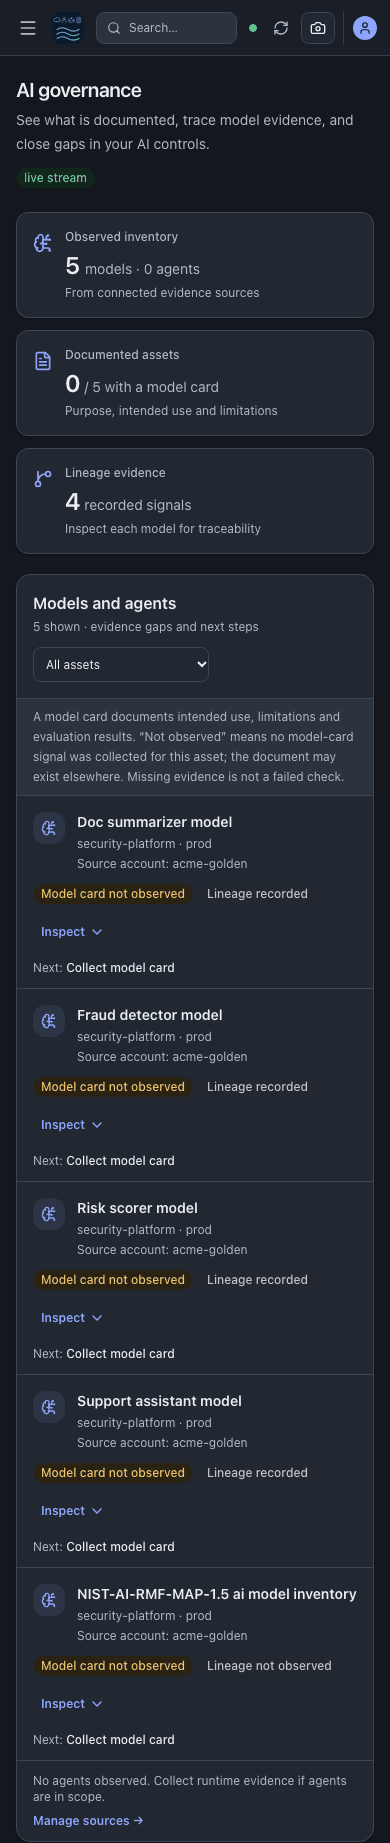
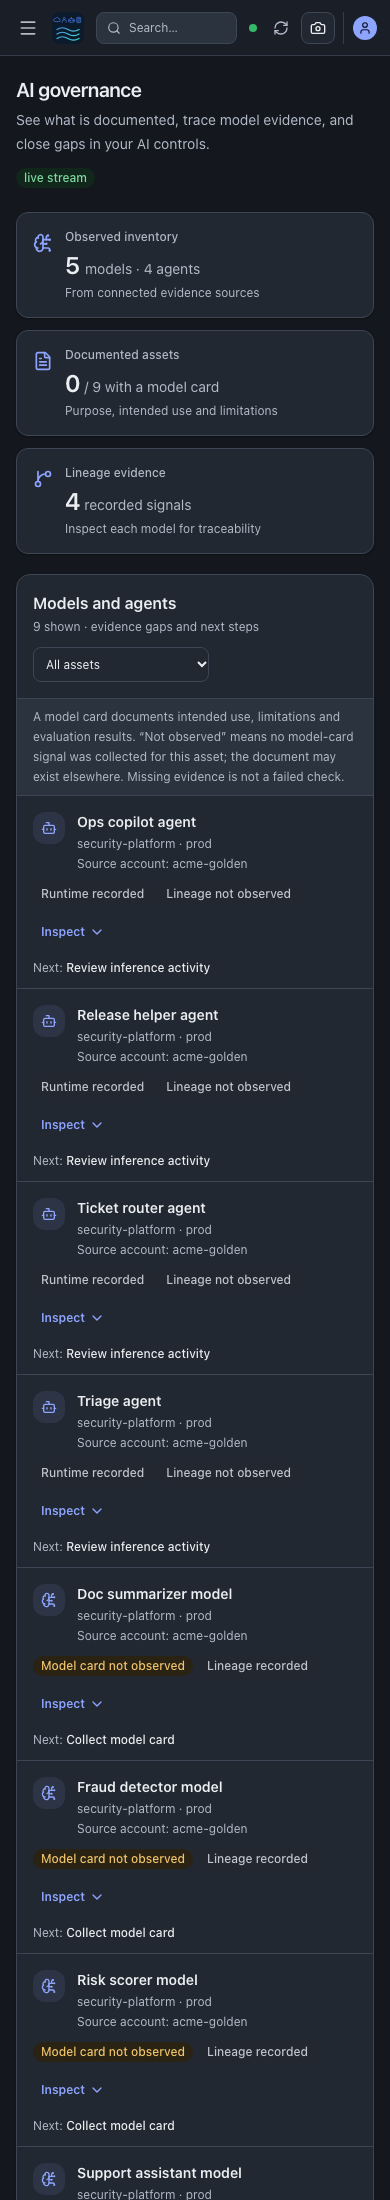
feat(demo): start AI investigations from recorded asset discovery (#1170)
* fix(deps): update pyasn1 to patched 0.6.5

* feat(demo): start AI investigations from recorded asset discovery

* test(demo): verify recorded agents in the real inventory

---------

diff --git a/app/web/e2e/ai-worklist.spec.ts b/app/web/e2e/ai-worklist.spec.ts
@@ -49,6 +49,12 @@ test("model worklist exposes evidence gaps and follows only the selected asset",
   await expect(
     worklist.getByText("Documented model", { exact: true }),
   ).toBeVisible();
+  await worklist.getByLabel("Filter AI inventory").selectOption("agents");
+  await expect(
+    worklist.getByText("No observed assets match this filter."),
+  ).toBeVisible();
+  await expect(worklist.locator("li")).toHaveCount(0);
+  await worklist.getByLabel("Filter AI inventory").selectOption("all");
   await worklist.getByRole("button", { name: "Inspect Review model" }).click();
   const detail = worklist.getByRole("region", { name: "Review model details" });
   await expect(detail).toContainText("Purpose, limitations and intended use");
@@ -122,9 +128,21 @@ for (const width of [390, 768, 1440]) {
       ),
     ).toBe(true);
     await worklist.getByLabel("Filter AI inventory").selectOption("agents");
+    await expect(worklist.locator("li")).toHaveCount(4);
+    for (const name of [
+      "Ops copilot agent",
+      "Release helper agent",
+      "Ticket router agent",
+      "Triage agent",
+    ]) {
+      await expect(worklist.getByRole("heading", { name })).toBeVisible();
+    }
     await expect(
-      worklist.getByText("No observed assets match this filter."),
-    ).toBeVisible();
+      worklist.getByText("Runtime recorded", { exact: true }),
+    ).toHaveCount(4);
+    await expect(
+      worklist.getByRole("heading", { name: "Doc summarizer model" }),
+    ).toHaveCount(0);
     await worklist.getByLabel("Filter AI inventory").selectOption("all");
     await expect(
       worklist.getByRole("heading", { name: "Doc summarizer model" }),
@@ -180,4 +198,50 @@ test("canonical AI agents show runtime actions and stay out of model-card gaps",
   await expect(
     worklist.getByRole("link", { name: "View agent evidence" }),
   ).toBeVisible();
+});
+
+test("inference agents show recorded runtime without claiming tool permissions", async ({
+  page,
+}) => {
+  await page.route("**/api/v1/platform/ai-governance/inventory**", (route) =>
+    route.fulfill({
+      json: {
+        data: [
+          {
+            asset_id: "agent:inference",
+            asset_name: "Inference agent",
+            asset_type: "agent",
+            source_account_id: "source-a",
+            owner: "AI team",
+            environment: "test",
+            model_card: false,
+            lineage_complete: false,
+            last_seen_at: "2026-10-30T12:00:00Z",
+            sources: ["runtime_gateway"],
+            control_ids: [],
+            event_types: ["runtime.inference"],
+          },
+        ],
+      },
+    }),
+  );
+  await page.goto("/console/ai-governance/");
+  const worklist = page.getByRole("region", { name: "Models and agents" });
+  await expect(
+    worklist.getByText("Runtime recorded", { exact: true }),
+  ).toBeVisible();
+  await expect(
+    worklist.getByText("Review inference activity", { exact: true }),
+  ).toBeVisible();
+  await expect(
+    worklist.getByText("Runtime not observed", { exact: true }),
+  ).toHaveCount(0);
+  await worklist
+    .getByRole("button", { name: "Inspect Inference agent" })
+    .click();
+  await expect(
+    worklist.getByRole("region", { name: "Inference agent details" }),
+  ).toContainText(
+    "Inference evidence alone does not establish tool permissions",
+  );
 });

diff --git a/app/web/src/components/audit-room/AiGovernanceWorkspace.tsx b/app/web/src/components/audit-room/AiGovernanceWorkspace.tsx
@@ -32,10 +32,13 @@ function inventoryKey(item: AiInventoryItem): string {
 }
 
 function nextStep(item: AiInventoryItem): string {
-  if (isAgent(item))
-    return item.event_types.includes("runtime.tool_call")
-      ? "Review tool activity"
-      : "Collect runtime evidence";
+  if (isAgent(item)) {
+    if (item.event_types.includes("runtime.tool_call"))
+      return "Review tool activity";
+    if (item.event_types.includes("runtime.inference"))
+      return "Review inference activity";
+    return "Collect runtime evidence";
+  }
   if (!item.model_card) return "Collect model card";
   if (!item.lineage_complete) return "Review model lineage";
   return "Review linked controls";
@@ -48,7 +51,9 @@ function InventoryRow({ item }: { item: AiInventoryItem }) {
   const agent = isAgent(item);
   const recordedLineage =
     item.lineage_complete || item.event_types.includes("model.lineage");
-  const runtime = item.event_types.includes("runtime.tool_call");
+  const runtime = item.event_types.some((type) =>
+    ["runtime.tool_call", "runtime.inference"].includes(type),
+  );
   const Icon = agent ? Bot : BrainCircuit;
   return (
     <li className="border-t border-line first:border-t-0">
@@ -119,7 +124,7 @@ function InventoryRow({ item }: { item: AiInventoryItem }) {
             <p className="mt-1 text-xs leading-5 text-muted">
               {agent
                 ? runtime
-                  ? "Review the recorded tools, permissions and outcomes before assessing agent behavior."
+                  ? "Review the recorded runtime activity and outcomes before assessing agent behavior. Inference evidence alone does not establish tool permissions or complete agent coverage."
                   : "Runtime evidence is needed to inspect tool use and permissions. Connect the agent activity source if this agent is in scope."
                 : !item.model_card
                   ? "Purpose, limitations and intended use belong in a model card. No model-card signal was collected for this asset; the document may exist elsewhere. Ask the owner for the card and collect its evidence, then review the linked controls."

diff --git a/src/security_lakehouse/ai_governance.py b/src/security_lakehouse/ai_governance.py
@@ -73,12 +73,21 @@ def _attributes(row: dict[str, Any]) -> dict[str, Any]:
     return attrs if isinstance(attrs, dict) else {}
 
 
+def _is_runtime_agent(row: dict[str, Any]) -> bool:
+    return _asset_type(row) in {"agent", "ai_agent"} and str(row.get("event_type") or "") in AGENT_EVENT_TYPES | {
+        "runtime.inference"
+    }
+
+
+def _is_ai_asset(row: dict[str, Any]) -> bool:
+    return _asset_type(row) in AI_ASSET_TYPES or _is_runtime_agent(row)
+
+
 def _is_ai_event(row: dict[str, Any]) -> bool:
     event_type = str(row.get("event_type") or "")
     if event_type in INVENTORY_EVENT_TYPES | LINEAGE_EVENT_TYPES | AGENT_EVENT_TYPES | REPO_ARTIFACT_EVENT_TYPES:
         return True
-    asset_type = _asset_type(row)
-    return asset_type in AI_ASSET_TYPES
+    return _is_ai_asset(row)
 
 
 def _framework_control_ids(controls: list[dict[str, Any]], prefix: str) -> set[str]:
@@ -192,7 +201,7 @@ def _inventory_items(events: list[dict[str, Any]]) -> list[dict[str, Any]]:
         if not asset_id:
             continue
         asset_type = _asset_type(row)
-        if asset_type not in AI_ASSET_TYPES and str(row.get("event_type") or "") not in INVENTORY_EVENT_TYPES:
+        if not _is_ai_asset(row) and str(row.get("event_type") or "") not in INVENTORY_EVENT_TYPES:
             continue
         attrs = _attributes(row)
         account, _ = source_asset_key({**row, "asset_id": asset_id})
@@ -283,12 +292,14 @@ def build_ai_governance_status(*, lake: Path) -> dict[str, Any]:
 
     inventory_events = [row for row in ai_events if str(row.get("event_type") or "") in INVENTORY_EVENT_TYPES]
     lineage_events = [row for row in ai_events if str(row.get("event_type") or "") in LINEAGE_EVENT_TYPES]
-    agent_events = [row for row in ai_events if str(row.get("event_type") or "") in AGENT_EVENT_TYPES]
+    agent_events = [
+        row for row in ai_events if str(row.get("event_type") or "") in AGENT_EVENT_TYPES or _is_runtime_agent(row)
+    ]
     repo_artifacts = [row for row in ai_events if str(row.get("event_type") or "") in REPO_ARTIFACT_EVENT_TYPES]
 
     inventory = _merged_inventory(lake=lake, events=ai_events)
     models = [row for row in inventory if row["asset_type"] in {"ai_model", "model"}]
-    agents = [row for row in inventory if row["asset_type"] == "ai_agent"]
+    agents = [row for row in inventory if row["asset_type"] in {"ai_agent", "agent"}]
     with_model_card = sum(1 for row in inventory if row["model_card"])
     with_lineage = sum(1 for row in inventory if row["lineage_complete"] or "model.lineage" in row["event_types"])
 

diff --git a/src/security_lakehouse/cli.py b/src/security_lakehouse/cli.py
@@ -471,7 +471,13 @@ def _parser() -> argparse.ArgumentParser:
     serve.set_defaults(func=_serve)
 
     demo = sub.add_parser(
-        "demo", help="load the synthetic golden company into a temporary lake and open the console on loopback"
+        "demo", help="load a synthetic company into a temporary lake and open the console on loopback"
+    )
+    demo.add_argument(
+        "--company",
+        choices=["golden", "ai_lab"],
+        default="golden",
+        help="synthetic demo company; ai_lab opens model and agent inventory",
     )
     demo.add_argument("--port", type=int, default=8787, help="loopback port")
     demo.add_argument("--no-browser", action="store_true", help="print the console URL without opening a browser")
@@ -2315,9 +2321,10 @@ def _serve_demo(args: argparse.Namespace, host: str) -> int:
     import tempfile
 
     with tempfile.TemporaryDirectory(prefix="grc-lake-demo-") as lake:
-        print("loading the synthetic golden company...", flush=True)
-        _load_fixture("golden", lake, tenant_id="default", rebase_times=True, demo_records=True)
-        url = f"http://{host}:{args.port}/console/dashboard/"
+        print(f"loading the synthetic {args.company} company...", flush=True)
+        _load_fixture(args.company, lake, tenant_id="default", rebase_times=True, demo_records=True)
+        page = "ai-governance" if args.company == "ai_lab" else "dashboard"
+        url = f"http://{host}:{args.port}/console/{page}/"
         try:
             import uvicorn
 
@@ -2329,6 +2336,9 @@ def _serve_demo(args: argparse.Namespace, host: str) -> int:
         if not args.no_browser:
             _open_when_listening(host, args.port, url)
         print(f"GRC Lake demo (synthetic data, no authentication, loopback only): {url}")
+        if args.company == "ai_lab":
+            print("Start with the discovered models and agents, then inspect their recorded evidence and gaps.")
+            print("Synthetic observations do not establish live coverage or framework compliance.")
         print("press Ctrl+C to stop; the temporary lake is deleted on exit", flush=True)
         with contextlib.suppress(KeyboardInterrupt):
             if not full_server:

diff --git a/tests/test_cli_demo.py b/tests/test_cli_demo.py
@@ -123,3 +123,41 @@ def test_demo_deletes_its_temporary_lake_on_sigterm(tmp_path: Path) -> None:
             process.wait()
 
     assert not lakes[0].exists()
+
+
+def test_ai_demo_opens_inventory_with_real_fixture_assets_and_cleans_up(monkeypatch, capsys):
+    pytest.importorskip("uvicorn")
+    from security_lakehouse import api_v1, server_app
+    from security_lakehouse.io import read_json
+
+    seen = {}
+
+    def build(lake, *, require_auth):
+        seen["lake"] = Path(lake)
+        assert require_auth is False
+        status, body = api_v1.handle_get("/api/v1/platform/ai-governance/inventory", {}, Path(lake))
+        assert status == 200
+        seen["inventory"] = body["data"]
+        seen["assessment"] = read_json(Path(lake) / "gold/ccf_assessment.json")
+        return SimpleNamespace()
+
+    port = _free_port()
+    monkeypatch.setattr(server_app, "create_app", build)
+    monkeypatch.setattr("uvicorn.run", lambda _app, **kwargs: seen.update(bind=kwargs))
+    monkeypatch.setattr(cli, "_open_when_listening", lambda host, port, url: seen.update(url=url))
+    args = cli._parser().parse_args(["demo", "--company", "ai_lab", "--port", str(port)])
+    assert cli._demo(args) == 0
+    assert seen["url"] == f"http://127.0.0.1:{port}/console/ai-governance/"
+    assert seen["bind"]["host"] == "127.0.0.1"
+    assert len(seen["inventory"]) == 3
+    assert {row["asset_type"] for row in seen["inventory"]} == {"model", "agent"}
+    assert seen["assessment"]["population_completeness"] == "not_established"
+    assert not seen["lake"].exists()
+    output = capsys.readouterr().out
+    assert "synthetic ai_lab company" in output
+    assert "Start with the discovered models and agents" in output
+
+
+def test_demo_company_is_an_allowlisted_fixture_not_a_file_path():
+    with pytest.raises(SystemExit):
+        _args("--company", "../../private")

diff --git a/tests/test_ai_governance.py b/tests/test_ai_governance.py
@@ -480,3 +480,30 @@ def test_scoped_import_documents_only_exact_account_asset_pair(tmp_path: Path) -
     assert items["source-a"]["owner"] == "source-a"
     assert items["source-a"]["control_ids"] == []
     assert items["source-b"]["model_card"] is False
+
+
+def test_runtime_backed_agent_inventory_preserves_accounts_without_classifying_other_agents(tmp_path):
+    rows = [
+        {
+            "event_id": f"{account}-{event_type}",
+            "asset_id": "agent:shared-name",
+            "asset_type": "agent",
+            "source_account_id": account,
+            "event_type": event_type,
+            "source": "runtime_gateway",
+            "event_time": "2026-10-30T10:00:00Z",
+            "status": "observed",
+            "control_ids": [],
+        }
+        for account, event_type in [("a", "runtime.inference"), ("b", "runtime.tool_call"), ("c", "agent.heartbeat")]
+    ]
+    _write_jsonl(tmp_path / "silver/normalized_events.jsonl", rows)
+    inventory = list_ai_inventory(lake=tmp_path)
+    assert {(r["source_account_id"], r["asset_id"], r["asset_type"]) for r in inventory} == {
+        ("a", "agent:shared-name", "agent"),
+        ("b", "agent:shared-name", "agent"),
+    }
+    assert all(r["last_seen_at"] == "2026-10-30T10:00:00Z" for r in inventory)
+    status = build_ai_governance_status(lake=tmp_path)
+    assert status["inventory"]["agents"] == 2
+    assert status["events"]["agent_runtime"] == 2

diff --git a/docs/README.md b/docs/README.md
@@ -7,19 +7,20 @@ For a real evaluation and contribution feedback, use the [bounded pilot guide](P
 
 ## Start
 
-| Guide                                                                   | Covers                                                             |
-| ----------------------------------------------------------------------- | ------------------------------------------------------------------ |
-| [5-minute tutorial](TUTORIAL_5_MIN.md)                                  | Sample data to evaluated controls, a mapping review, and an export |
-| [Product walkthrough](PRODUCT_WALKTHROUGH.md)                           | Running the demo and what each console page does                   |
-| [Scenarios](SCENARIOS.md)                                               | End-to-end scenarios over the bundled data                         |
-| [Auditor walkthrough](AUDITOR_WALKTHROUGH.md)                           | The auditor's path through shares, snapshots, and workpapers       |
-| [Control workflow qualification](CONTROL_WORKFLOW_QUALIFICATION.md)     | Synthetic access/change failure cases and retained workpapers      |
-| [Connector workflow qualification](CONNECTOR_WORKFLOW_QUALIFICATION.md) | Offline GitHub, Okta and Jira collection-to-export evidence        |
-| [Vendor diligence use case](USE_CASE_VENDOR_DILIGENCE.md)               | Just-in-time vendor diligence snapshots                            |
-| [AWS + Snowflake demo](AWS_SNOWFLAKE_DEMO.md)                           | Demo package for AWS evidence in Snowflake                         |
-| [Live cloud POC](LIVE_CLOUD_POC.md)                                     | Connecting a real AWS, Azure, or GCP account read-only             |
-| [Shareable demo](SHAREABLE_DEMO.md)                                     | Publishing a demo link for evaluators                              |
-| [Shareable POC hosting](SHAREABLE_POC_HOSTING.md)                       | Hosting a proof of concept                                         |
+| Guide                                                                   | Covers                                                                                                 |
+| ----------------------------------------------------------------------- | ------------------------------------------------------------------------------------------------------ |
+| [5-minute tutorial](TUTORIAL_5_MIN.md)                                  | Sample data to evaluated controls, a mapping review, and an export                                     |
+| [AI discovery walkthrough](AI_DISCOVERY_WALKTHROUGH.md)                 | A temporary AI lab: discover models and agents, inspect evidence, then start a bounded real evaluation |
+| [Product walkthrough](PRODUCT_WALKTHROUGH.md)                           | Running the demo and what each console page does                                                       |
+| [Scenarios](SCENARIOS.md)                                               | End-to-end scenarios over the bundled data                                                             |
+| [Auditor walkthrough](AUDITOR_WALKTHROUGH.md)                           | The auditor's path through shares, snapshots, and workpapers                                           |
+| [Control workflow qualification](CONTROL_WORKFLOW_QUALIFICATION.md)     | Synthetic access/change failure cases and retained workpapers                                          |
+| [Connector workflow qualification](CONNECTOR_WORKFLOW_QUALIFICATION.md) | Offline GitHub, Okta and Jira collection-to-export evidence                                            |
+| [Vendor diligence use case](USE_CASE_VENDOR_DILIGENCE.md)               | Just-in-time vendor diligence snapshots                                                                |
+| [AWS + Snowflake demo](AWS_SNOWFLAKE_DEMO.md)                           | Demo package for AWS evidence in Snowflake                                                             |
+| [Live cloud POC](LIVE_CLOUD_POC.md)                                     | Connecting a real AWS, Azure, or GCP account read-only                                                 |
+| [Shareable demo](SHAREABLE_DEMO.md)                                     | Publishing a demo link for evaluators                                                                  |
+| [Shareable POC hosting](SHAREABLE_POC_HOSTING.md)                       | Hosting a proof of concept                                                                             |
 
 [Current state and coverage](CURRENT_STATE.md) · [Contributor roadmap](../ROADMAP.md) · [Contributing](../CONTRIBUTING.md)
 

diff --git a/docs/AI_DISCOVERY_WALKTHROUGH.md b/docs/AI_DISCOVERY_WALKTHROUGH.md
@@ -1,0 +1,61 @@
+# Explore an AI environment from discovery to evidence
+
+Start with what is present: models, agents, owners, source accounts and their
+recorded observations. Then inspect configuration and control evidence. An asset
+without a passing control is still an asset worth investigating.
+
+## Run the synthetic AI lab
+
+From a source checkout containing this change (the `--company` demo option is
+unreleased):
+
+```bash
+uv run --extra server grc-lake demo --company ai_lab
+```
+
+This opens **AI governance** on loopback with a temporary lake. No credentials or
+provider access are needed. Ctrl+C stops the server and deletes the lake. Use
+`--no-browser` to print the URL, or `--port 8791` if the default port is occupied.
+The existing `grc-lake demo` still opens the general company dashboard.
+
+The AI lab contains synthetic records for one model, two inference agents,
+a repository, a container, an MCP server, a cloud role, identity access and an
+audit trail. The AI worklist shows the model and two agents; supporting assets
+remain available through evidence and the graph. This is a recorded example,
+not live discovery or a complete infrastructure inventory.
+
+## Follow one record
+
+1. In **Models and agents**, open the reranker model or an inference agent. Check
+   its exact identifier, owner, source account and last observation. Generic
+   `agent` records enter this worklist only when backed by recorded inference or
+   tool-call events; a monitoring-agent heartbeat alone is not AI inventory.
+2. Inspect the recorded evidence and use **Graph** to follow the source,
+   observation and affected asset. An edge means a recorded relationship; it does
+   not prove network reachability. Use the existing Fit View and zoom controls
+   to move between the full structure and readable labels.
+3. Compare a technical control result with its CCF/framework result. Proposed
+   mappings are not attestations, and a recorded blocked action is not proof that
+   every action is protected. Missing model cards, unknown configuration and
+   collection gaps remain visible work to investigate.
+
+The demo deliberately preserves those distinctions. It does not turn inventory,
+a synthetic example, or an unreviewed mapping into a compliance pass.
+
+## Move to a bounded real evaluation
+
+Use the [pilot guide](PILOT.md) and an [authenticated deployment](DEPLOYMENT.md)
+for real evidence. Keep the temporary unauthenticated demo separate from that
+installation. Choose one source account or cluster and check one known asset's
+configuration against the provider before relying on the result.
+
+For Kubernetes, inspect the connector's [read-only scope and collected fields](CONNECTORS.md#kubernetes-cluster-configuration-baseline-preview)
+and [qualification evidence](CONNECTOR_QUALIFICATION.md). Review successful reads,
+permission gaps and unsupported scopes separately. Workload device requests and
+node-reported capacity do not establish hardware utilization or fleet-wide
+GPU/TPU, VM or bare-metal coverage.
+
+Repeat collection after an independently confirmed change, then retain and verify
+an [auditor workpaper](AUDITOR_WALKTHROUGH.md). If the workflow fails, report the
+reproduction steps and version using the [contribution guide](../CONTRIBUTING.md);
+keep credentials, account identifiers and real evidence out of public reports.

diff --git a/README.md b/README.md
@@ -51,6 +51,8 @@ and opens your browser. Ctrl+C stops it and deletes the lake. With pip:
 the frozen result: follow the [sample-data tutorial](docs/TUTORIAL_5_MIN.md), then the
 [auditor workpaper example](docs/AUDITOR_WALKTHROUGH.md).
 
+**Exploring AI assets?** The source checkout includes an [AI discovery walkthrough](docs/AI_DISCOVERY_WALKTHROUGH.md): one command opens a synthetic model-and-agent inventory, then follows recorded evidence into the graph and assessment. The walkthrough marks the unreleased CLI option explicitly.
+
 For a real evaluation, follow the [bounded pilot guide](docs/PILOT.md): one source,
 one independently checked result, then a repeat collection and review.
 
